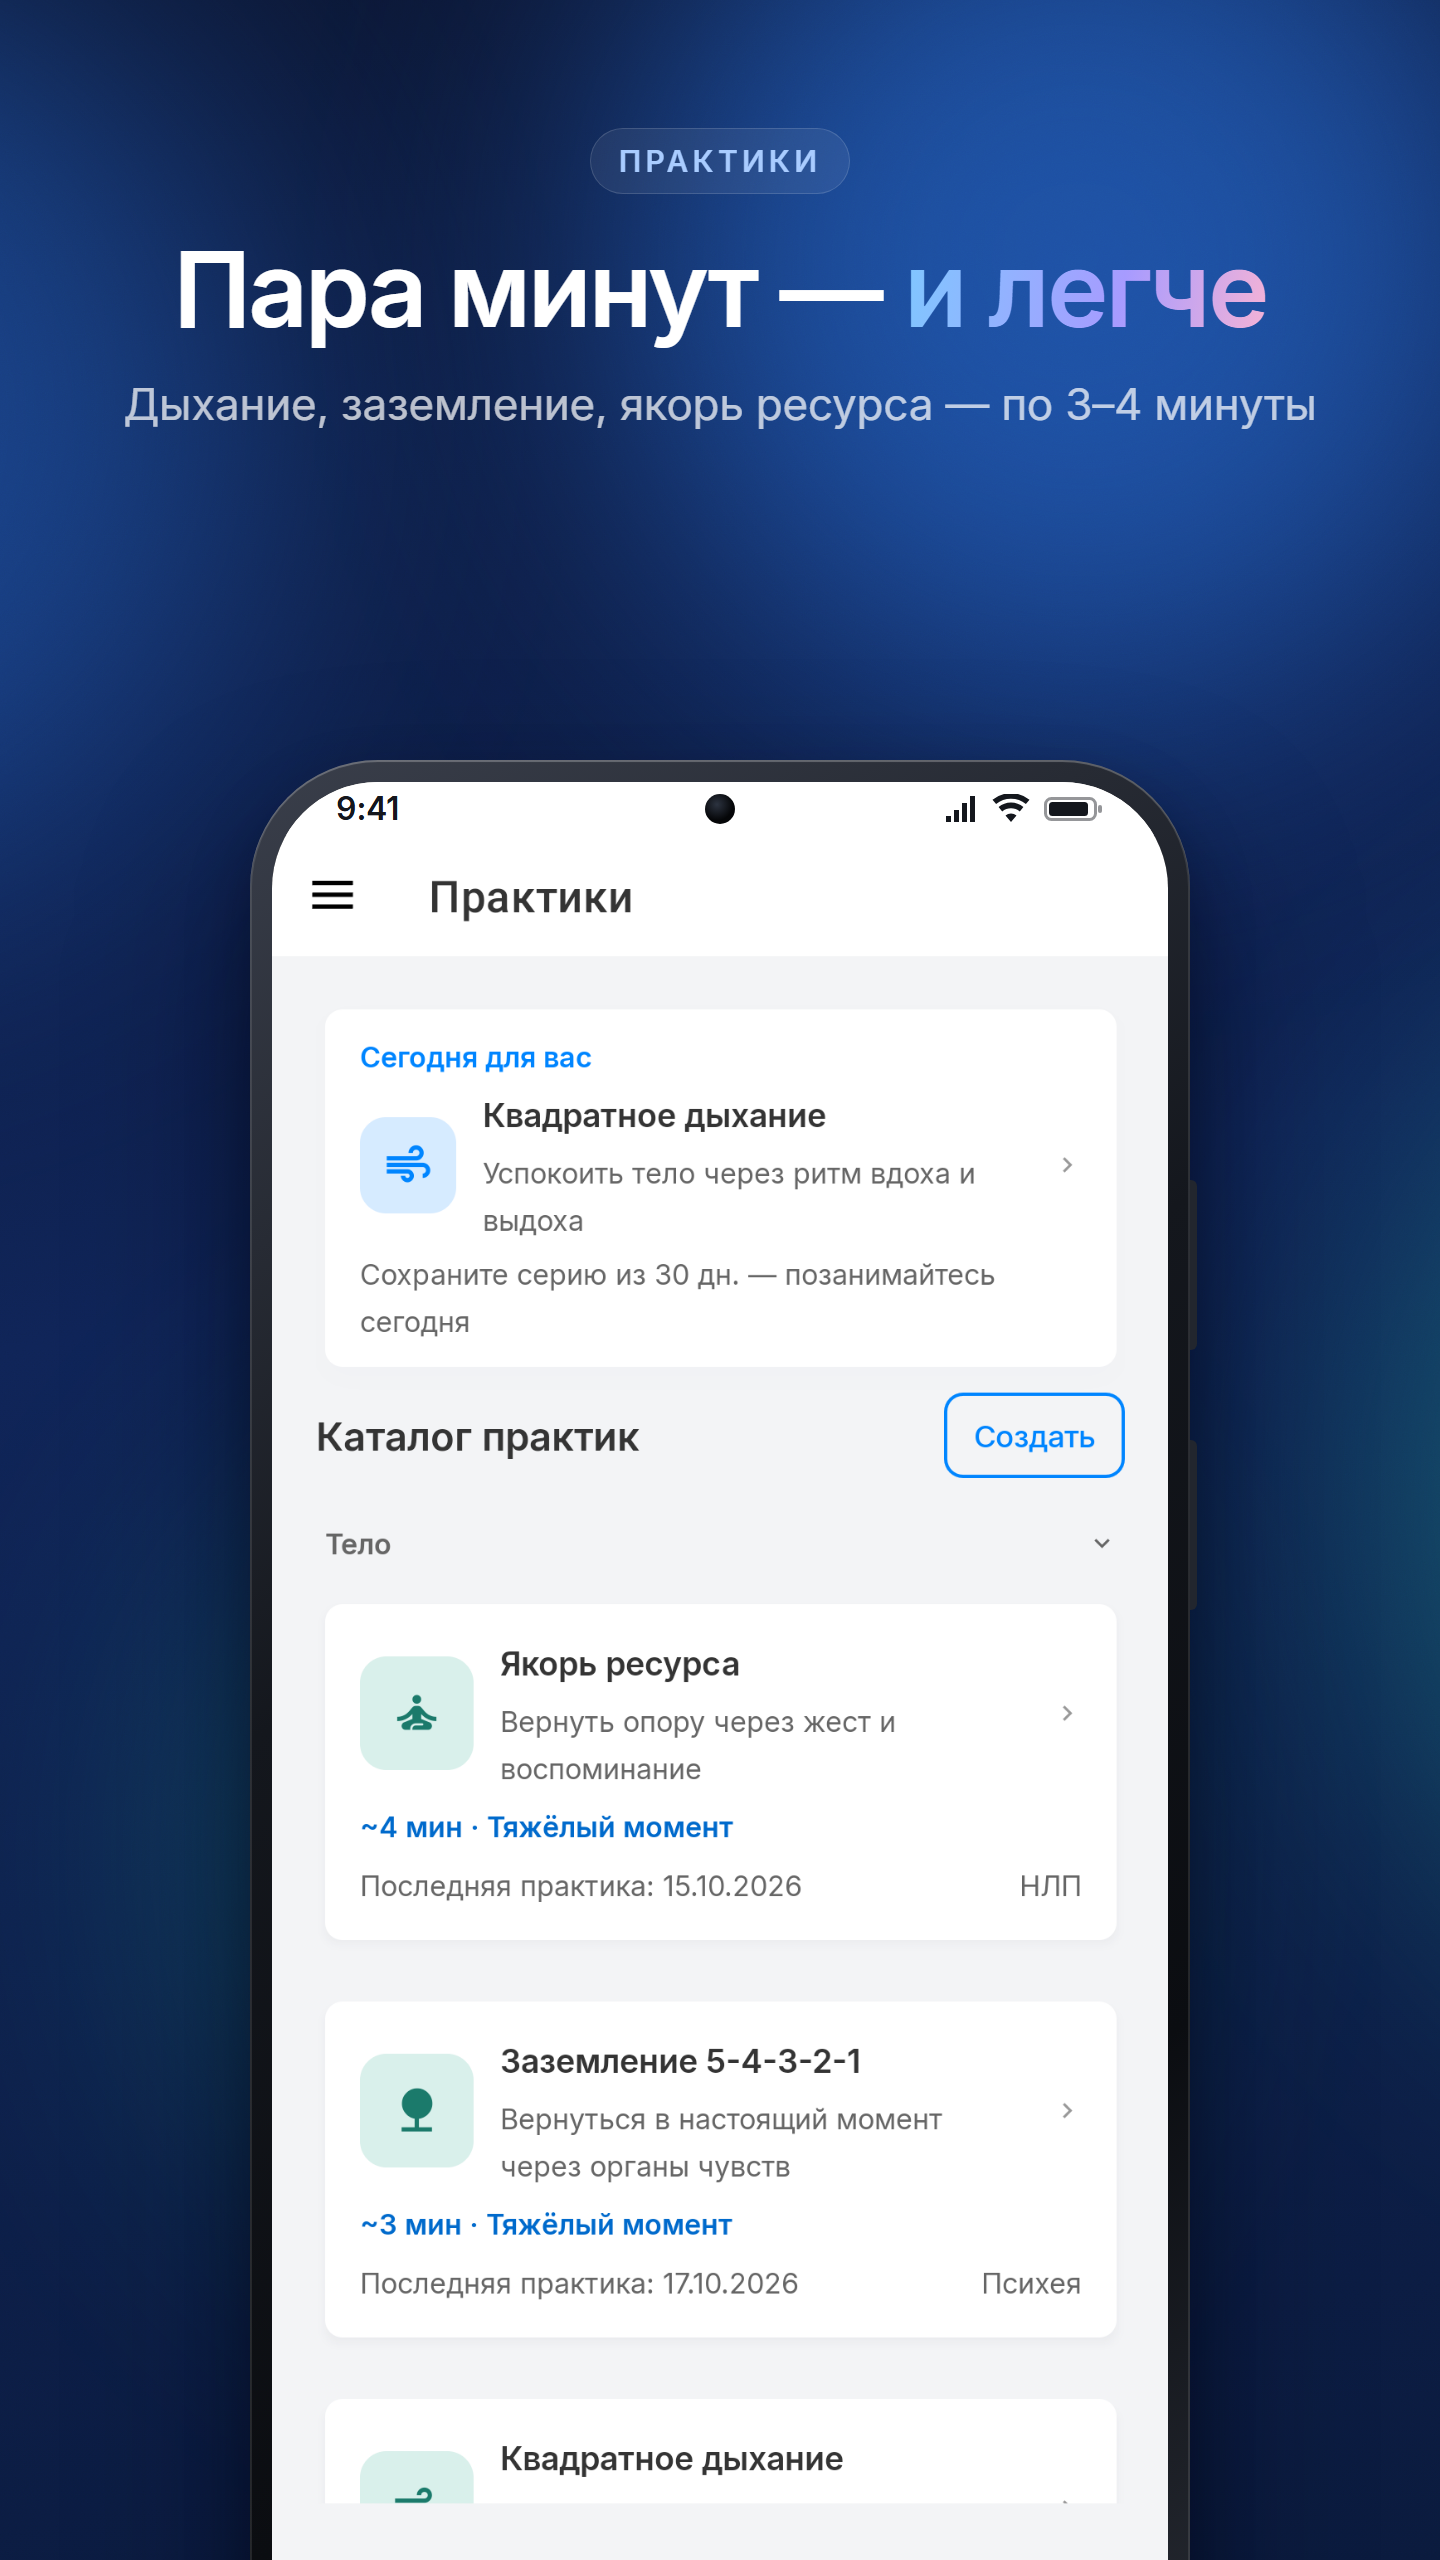
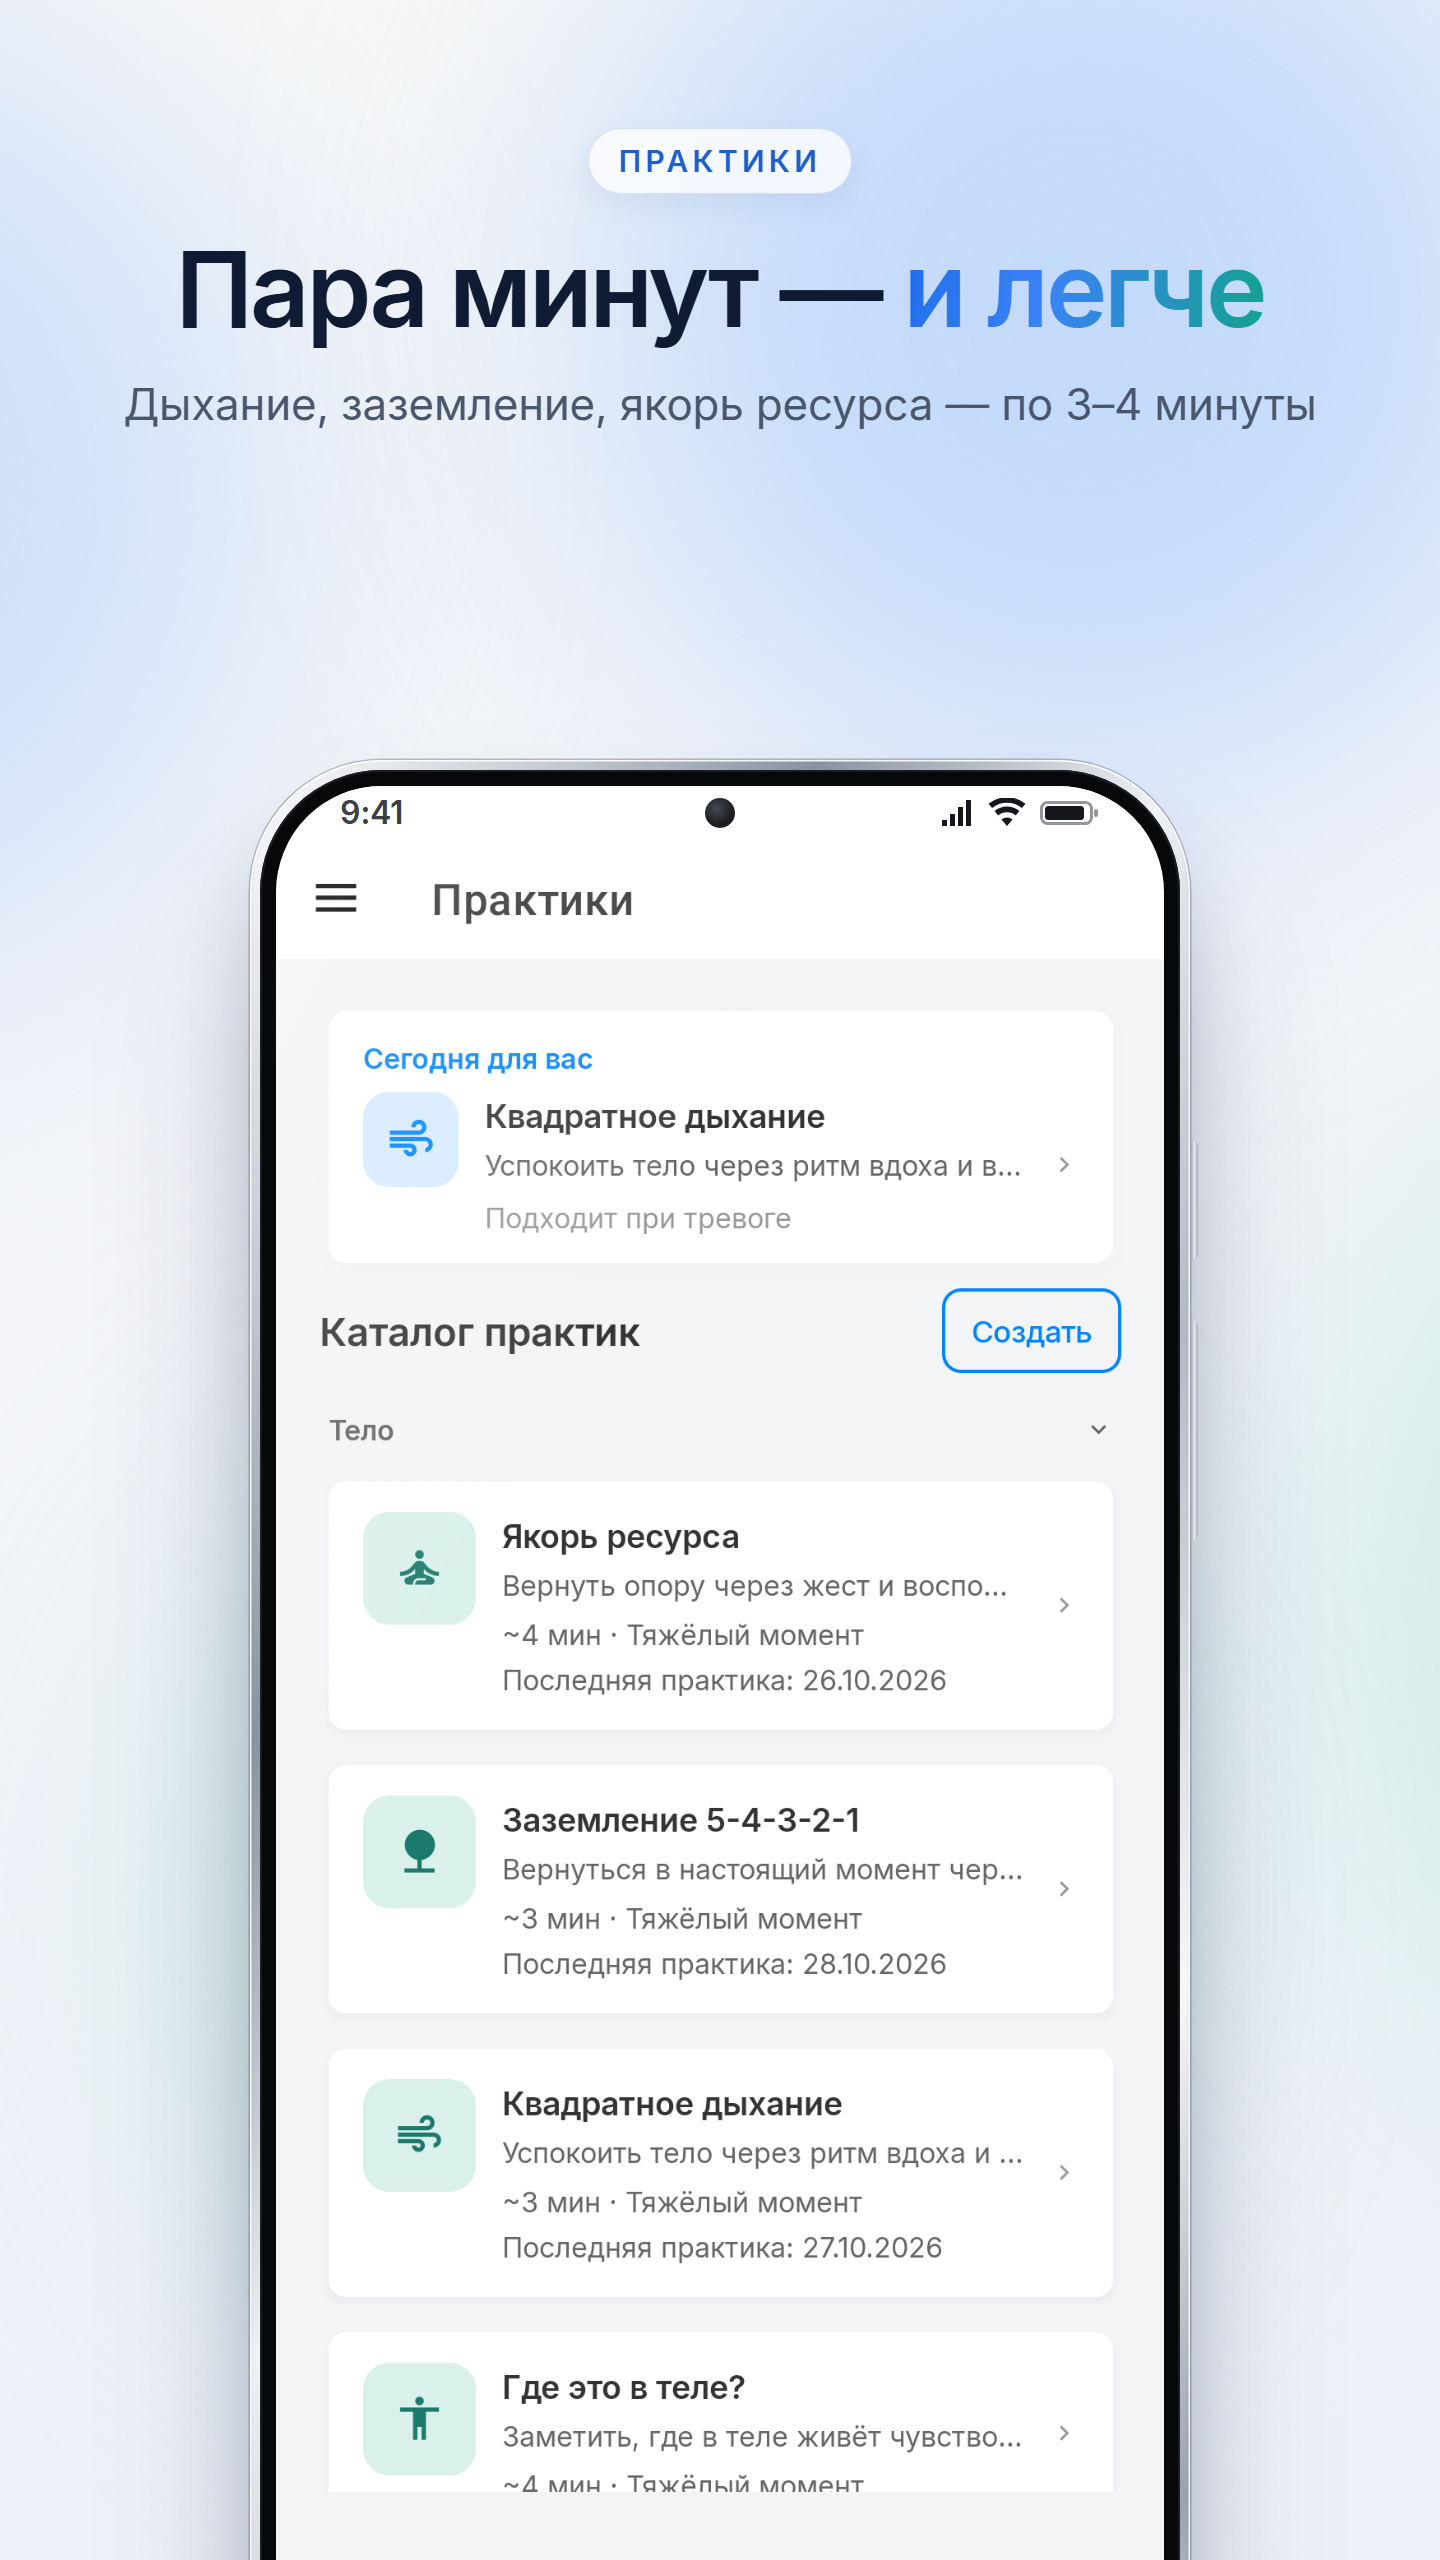
chore(store): light premium store screenshots for the pre-release
Russian slides redone on an ivory background with pastel glows and a glossy
titanium phone, from fresh demo-data captures of the current design. The
widget slide gives way to "Опорные мысли", the trend slide to the month
overview, and the chat is now called "ИИ-психолог" as in the app. The English
set is still the earlier dark style.

diff --git a/tools/store-screenshots/README.md b/tools/store-screenshots/README.md
@@ -25,19 +25,19 @@ Google Play и RuStore; Google Play берёт до восьми) и `feature-gr
    adb shell "cat /data/local/tmp/demo-backup.json | run-as com.subconscious.psychologyapp.store sh -c 'cat > files/demo-backup.json'"
    ```
 
-3. Запустите копию, пройдите знакомство и выберите язык в настройках. Проверку безопасности закройте кнопкой «Назад», не
+3. Запустите копию (если при первом запуске импорт не прошёл — база ещё не создана, — перезапустите её), пройдите знакомство и выберите язык в настройках. Проверку безопасности закройте кнопкой «Назад», не
    отвечая на вопросы. Снимите экраны (`adb exec-out screencap -p > raw/ru/chat.png`) под именами из `SLIDES` в
    `compose.mjs`:
 
    | файл | экран |
    | --- | --- |
-   | `chat.png` | ИИ-чат «Перед презентацией», прокрученный так, чтобы сообщение человека было видно целиком |
-   | `breathing.png` | «Квадратное дыхание» → «На весь экран», идёт вдох |
+   | `chat.png` | ИИ-психолог, разговор «Перед презентацией», прокрученный так, чтобы сообщение человека было видно целиком |
+   | `breathing.png` | «Квадратное дыхание» → «Пропустить» → «На весь экран», дыхание идёт |
    | `practices.png` | вкладка «Практики» |
    | `insights.png` | меню → «Что мне помогает» |
    | `journal.png` | вкладка «Дневник» после выбора 🙂 |
-   | `chart.png` | Дневник → «Обзор» → «30 дней», прокручено к графику |
-   | `widget.png` | домашний экран с виджетом приложения на языке слайдов |
+   | `chart.png` | Дневник → карточка недели («Обзор») → «30 дней», без прокрутки |
+   | `anchors.png` | меню → «Опорные мысли» |
    | `tests.png` | вкладка «Тесты» |
 
 4. Соберите слайды (нужны Node и Microsoft Edge):
